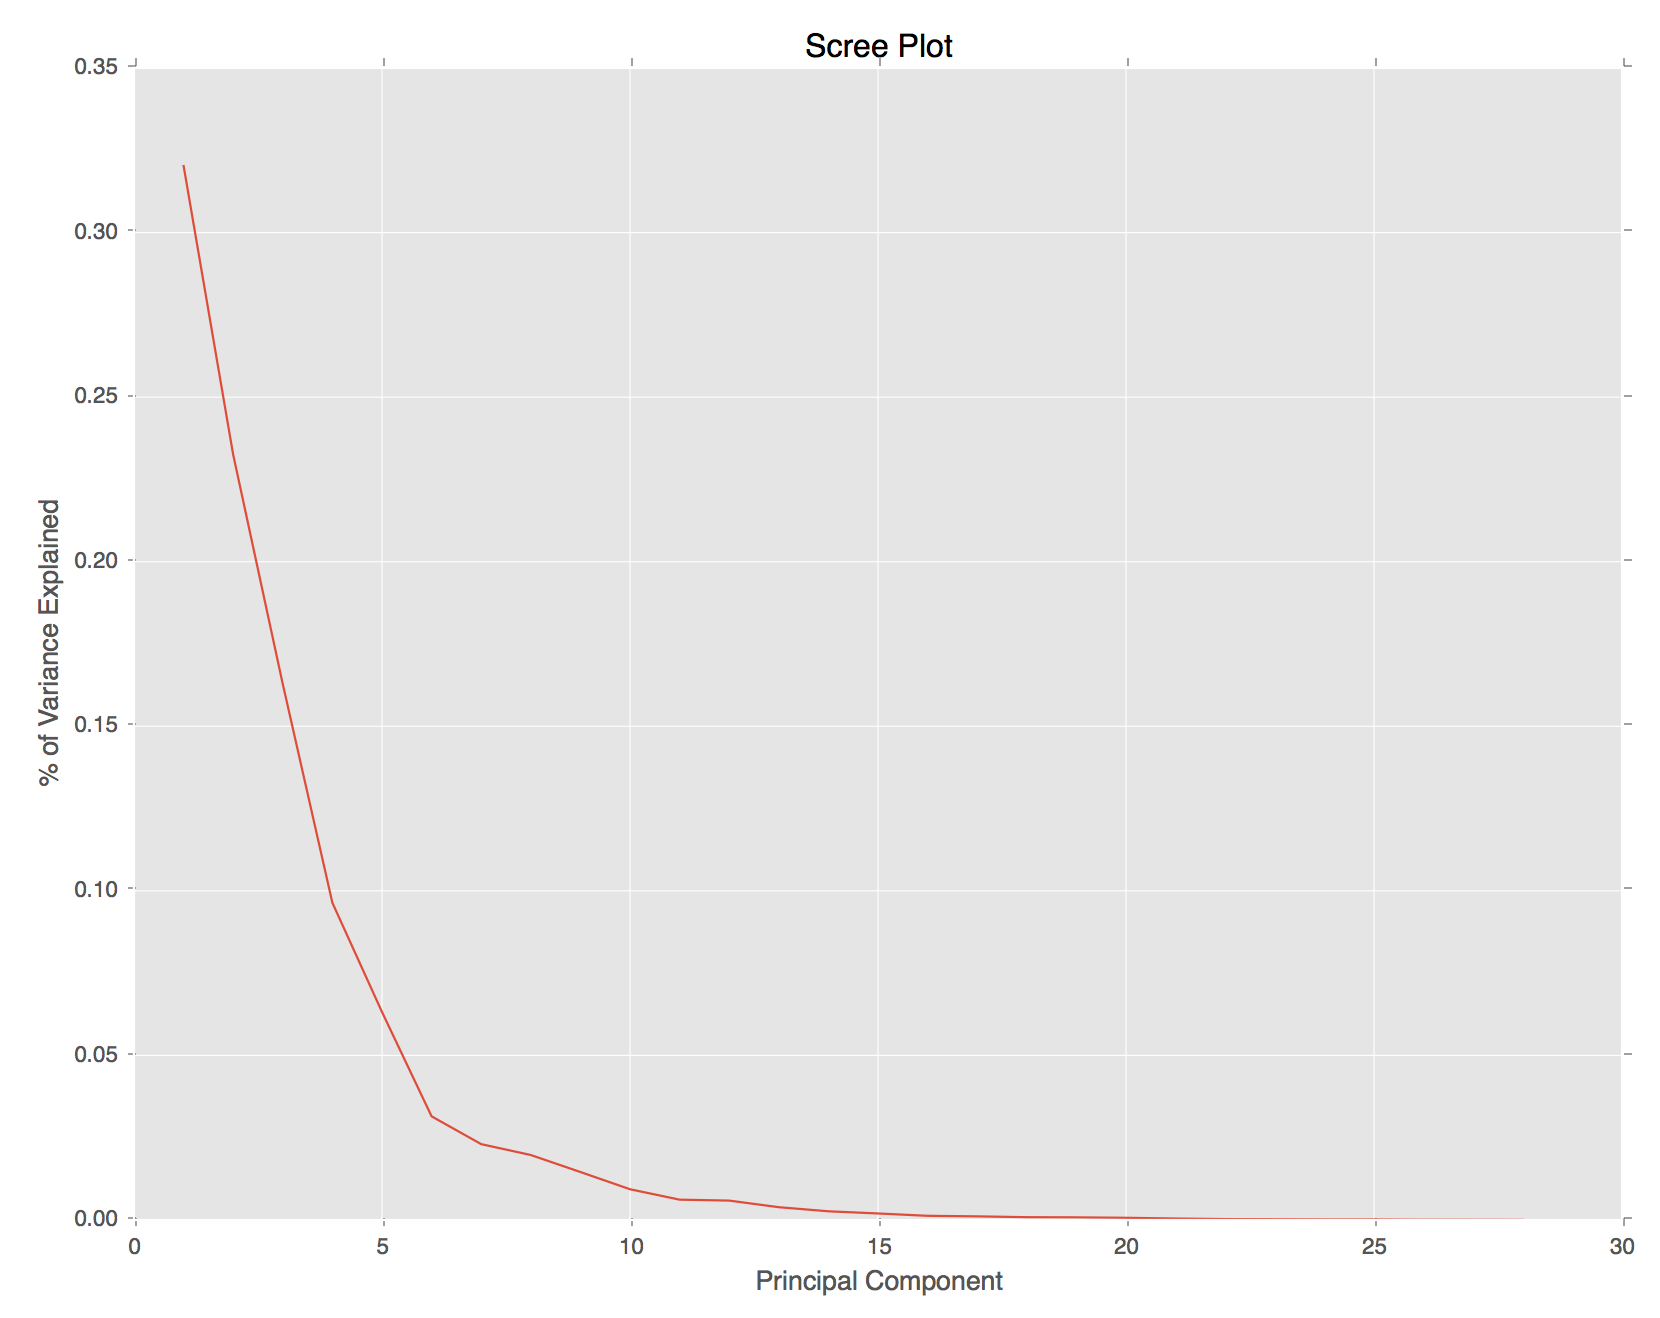
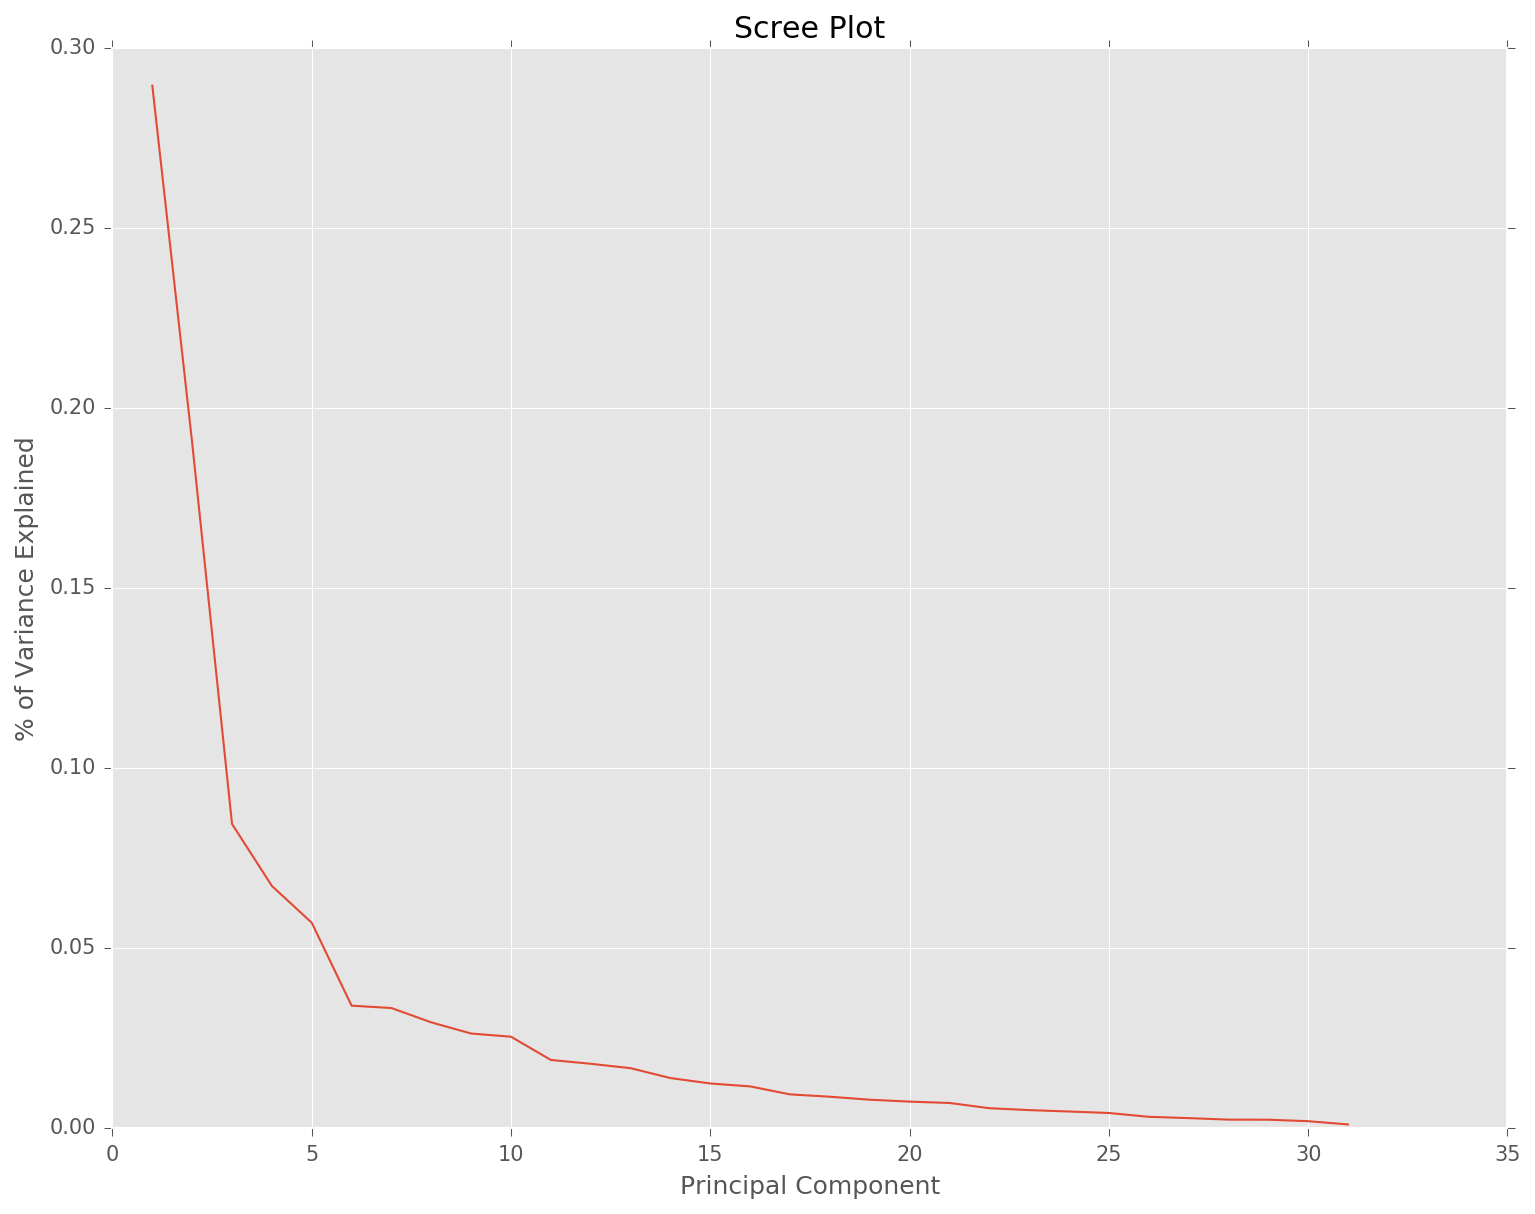
epxlore and export

diff --git a/code/02_exploration_plots.py b/code/02_exploration_plots.py
@@ -1,20 +1,21 @@
 import numpy as np
 import pandas as pd
 from sklearn.decomposition import PCA
-from sklearn.preprocessing import scale
+from sklearn.preprocessing import MinMaxScaler
+from sklearn.model_selection import StratifiedShuffleSplit
+
 import matplotlib.pyplot as plt
 from mpl_toolkits.mplot3d import Axes3D
 
-from utilities import Timer, MetaData, Plotter
+from utilities import Timer, MetaData
 
-# file properties
+# File properties
 # -----------------------------------------------------
 filePath = '../data/consolidated_clean_all.txt'
 plotDir = '../plots/'
 
-# Plots
+# Read Data
 # -----------------------------------------------------
-plotter = Plotter()
 
 metadata = MetaData()
 dataType = metadata.getProcessedColsDataType()
@@ -35,75 +36,97 @@ subj_activity = (100*subj) + activity
 df = pd.concat([df,subj_activity],axis=1)
 df.rename(columns={0:'activity_subj'}, inplace=True)
 
-# Correlation matrix
+readings = df.iloc[:,:-3]
+
+# Correlation Matrix
 # ---------------------------------------------
 plt.style.use('ggplot')
 
-dfReadings = df.iloc[:, :-2]
-corrPlot = plotter.plot_correlation(dfReadings.corr(), title='IMU readings')
+print('Plotting correlation ...')
+plotdata = readings.corr()
+lang_names = plotdata.columns.tolist()
+tick_indices = np.arange(0.5, len(lang_names) + 0.5)
 
+plt.figure(1,figsize=(10, 10))
+plt.pcolor(plotdata.values, cmap='RdBu', vmin=-1, vmax=1)
+colorbar = plt.colorbar()
+colorbar.set_label('Correlation')
+plt.title('IMU Readings')
+plt.xticks(tick_indices, lang_names, rotation='vertical')
+plt.yticks(tick_indices, lang_names)
+plt.xlim(0,len(lang_names))
+plt.ylim(0,len(lang_names))
+plt.gcf().subplots_adjust(bottom=0.25, left=0.25)
 
-# PCA
+plt.savefig('../plots/correlation.png', format='png', bbox_inches='tight', pad_inches=0.1,dpi=150)
+
+# Sample Data for Exploration
 # ---------------------------------------------
-# scale to min 0 max 1
-#minmax_scaler = MinMaxScaler()
-#scaled_data = minmax_scaler.fit_transform(df.ix[:, :-2])
 
+strat_split = StratifiedShuffleSplit(n_splits=1, train_size=0.99, test_size=0.01, random_state=2016)
 
-# Perform PCA and explore first 3 components
-print('Performing PCA ...')
+# stratify based on subj_activity
+for big_index, small_index in strat_split.split(df,subj_activity):
+    df_big, df_small = df.ix[big_index], df.ix[small_index]
+    print('Size of data set: ', len(df))
+    print('Size of training data set: ', len(big_index))
+    print('Size of test data set: ', len(small_index))
+
+# PCA Exploration
+# ---------------------------------------------
+df_small_readings = df_small.iloc[:,:-3]
+df_small_subject = df_small.iloc[:,-2]
+df_small_activity = df_small.iloc[:,-1]
+
+minmax_scaler = MinMaxScaler()
+scaled_data = minmax_scaler.fit_transform(df_small_readings)
+
+print('Plotting PCA 2 components ...')
+
 pca = PCA()
-#dftr = pca.fit_transform(scaled_data)
-dftr = pca.fit_transform(df.ix[:, :-2])
+dftr = pca.fit_transform(scaled_data)
 
-print('Visualizing ... ')
-plt.style.use("ggplot")
-dftr = np.column_stack((dftr[:,0:3],df.activity_id))
+dftr = np.column_stack((dftr[:,0:3],df_small_activity))
 
-# Code to sample 2000 points (uncomment to sample 2000 pts
-# ---------------------------------------------
-idx = np.random.randint(len(df.activity_id), size=20000)
-# dftr = pltdata[idx,:]
+fig = plt.figure(2, figsize=(10,10))
+ax = fig.add_subplot(1,1,1)
+ax.set_xlabel('Principal Component 1')
+ax.set_ylabel('Principal Component 2')
+plt.title('Top 2 Principal Components')
+plt.scatter(dftr[:,0], dftr[:,1], c=dftr[:,3], alpha=0.5, cmap=plt.cm.prism)
 
-# Plot 2d PCA
-# fig = plt.figure(figsize=(12,12))
-# ax = fig.add_subplot(1,1,1)
-# ax.set_xlabel('principal component 1')
-# ax.set_ylabel('principal component 2')
-# plt.title('Top 2 Principal compoments')
-# plt.scatter(dftr[:,0], dftr[:,1], c=dftr[:,3], alpha=0.5)
 
-# Plot 3d PCA
-# Sample 500 points from each class and plot it
-# ----------------------------------------------
-# dftr = xxxx
+plt.savefig('../plots/pca_2components.png', format='png', bbox_inches='tight', pad_inches=0.1,dpi=150)
 
-fig = plt.figure(figsize=(12,12))
+print('Plotting PCA 3 components ...')
+
+fig = plt.figure(3, figsize=(10,10))
 ax = fig.add_subplot(1,1,1, projection='3d')
-ax.set_xlabel('principal component 1')
-ax.set_ylabel('principal component 2')
-ax.set_zlabel('principal component 3')
-plt.title('Top 3 Principal components')
-#for i in MetaData.activities:
-#    np.random.choice(np.indices)
-#plt.scatter(dftr[:,0], dftr[:,1], dftr[:,2], c=dftr[:,3], marker='x', cmap=plt.cm.Accent)
-plt.scatter(dftr[idx,0], dftr[idx,1], dftr[idx,2], c=dftr[idx,3],marker='x', cmap=plt.cm.prism)
-fig2 = plt.figure(figsize=(12,12))
-ax.set_xlabel('principal component 1')
-ax.set_ylabel('principal component 2')
-plt.title('Top 2 Principal components')
-plt.scatter(dftr[idx,0], dftr[idx,1], c=dftr[idx,3],marker='x', cmap=plt.cm.prism)
+ax.set_xlabel('Principal Component 1')
+ax.set_ylabel('Principal Component 2')
+ax.set_zlabel('Principal Component 3')
+plt.title('Top 3 Principal Components')
+ax.scatter(dftr[:,0], dftr[:,1], dftr[:,2], c=dftr[:,3],marker='o', cmap=plt.cm.prism)
 
-#plt.scatter(dftr[idx,0], dftr[idx,1], dftr[idx,2], c=dftr[idx,3], cmap=plt.cm.rainbow)
-# Get principal components and explained variance ration
+plt.savefig('../plots/pca_3components.png', format='png', bbox_inches='tight', pad_inches=0.1,dpi=150)
+
+print('Plotting Scree Plot ...')
+
 comp = pca.components_
 evr = pca.explained_variance_ratio_
 
-screePlot = plot_scree(evr, len(evr), 'Scree Plot')
+pc = np.arange(len(comp)) + 1
+plt.figure(figsize=(12, 9))
+plt.title('Scree Plot')
+plt.xlabel('Principal Component')
+plt.ylabel('% of Variance Explained')
+plt.plot(pc, evr)
 
-# Show the graphs
-plt.show()
+plt.savefig('../plots/screeplot.png', format='png', bbox_inches='tight', pad_inches=0.1,dpi=150)
 
-# Print end time
+# Variable Exploration
+# ---------------------------------------------
+
 print('End Time : ', timer.getTime())
 
+plt.show()

diff --git a/code/utilities.py b/code/utilities.py
@@ -7,16 +7,7 @@ class Plotter:
         pass
 
     def plot_correlation(dataframe, title=''):
-        lang_names = dataframe.columns.tolist()
-        tick_indices = np.arange(0.5, len(lang_names) + 0.5)
-        plt.figure(figsize=(12, 12))
-        plt.pcolor(dataframe.values, cmap='RdBu', vmin=-1, vmax=1)
-        colorbar = plt.colorbar()
-        colorbar.set_label('Correlation')
-        plt.title(title)
-        plt.xticks(tick_indices, lang_names, rotation='vertical')
-        plt.yticks(tick_indices, lang_names)
-        plt.gcf().subplots_adjust(bottom=0.25, left=0.25)
+        pass
 
     def plot_scree(explainedVarianceRatio, colsNumber, title=''):
         pc = np.arange(colsNumber) + 1
